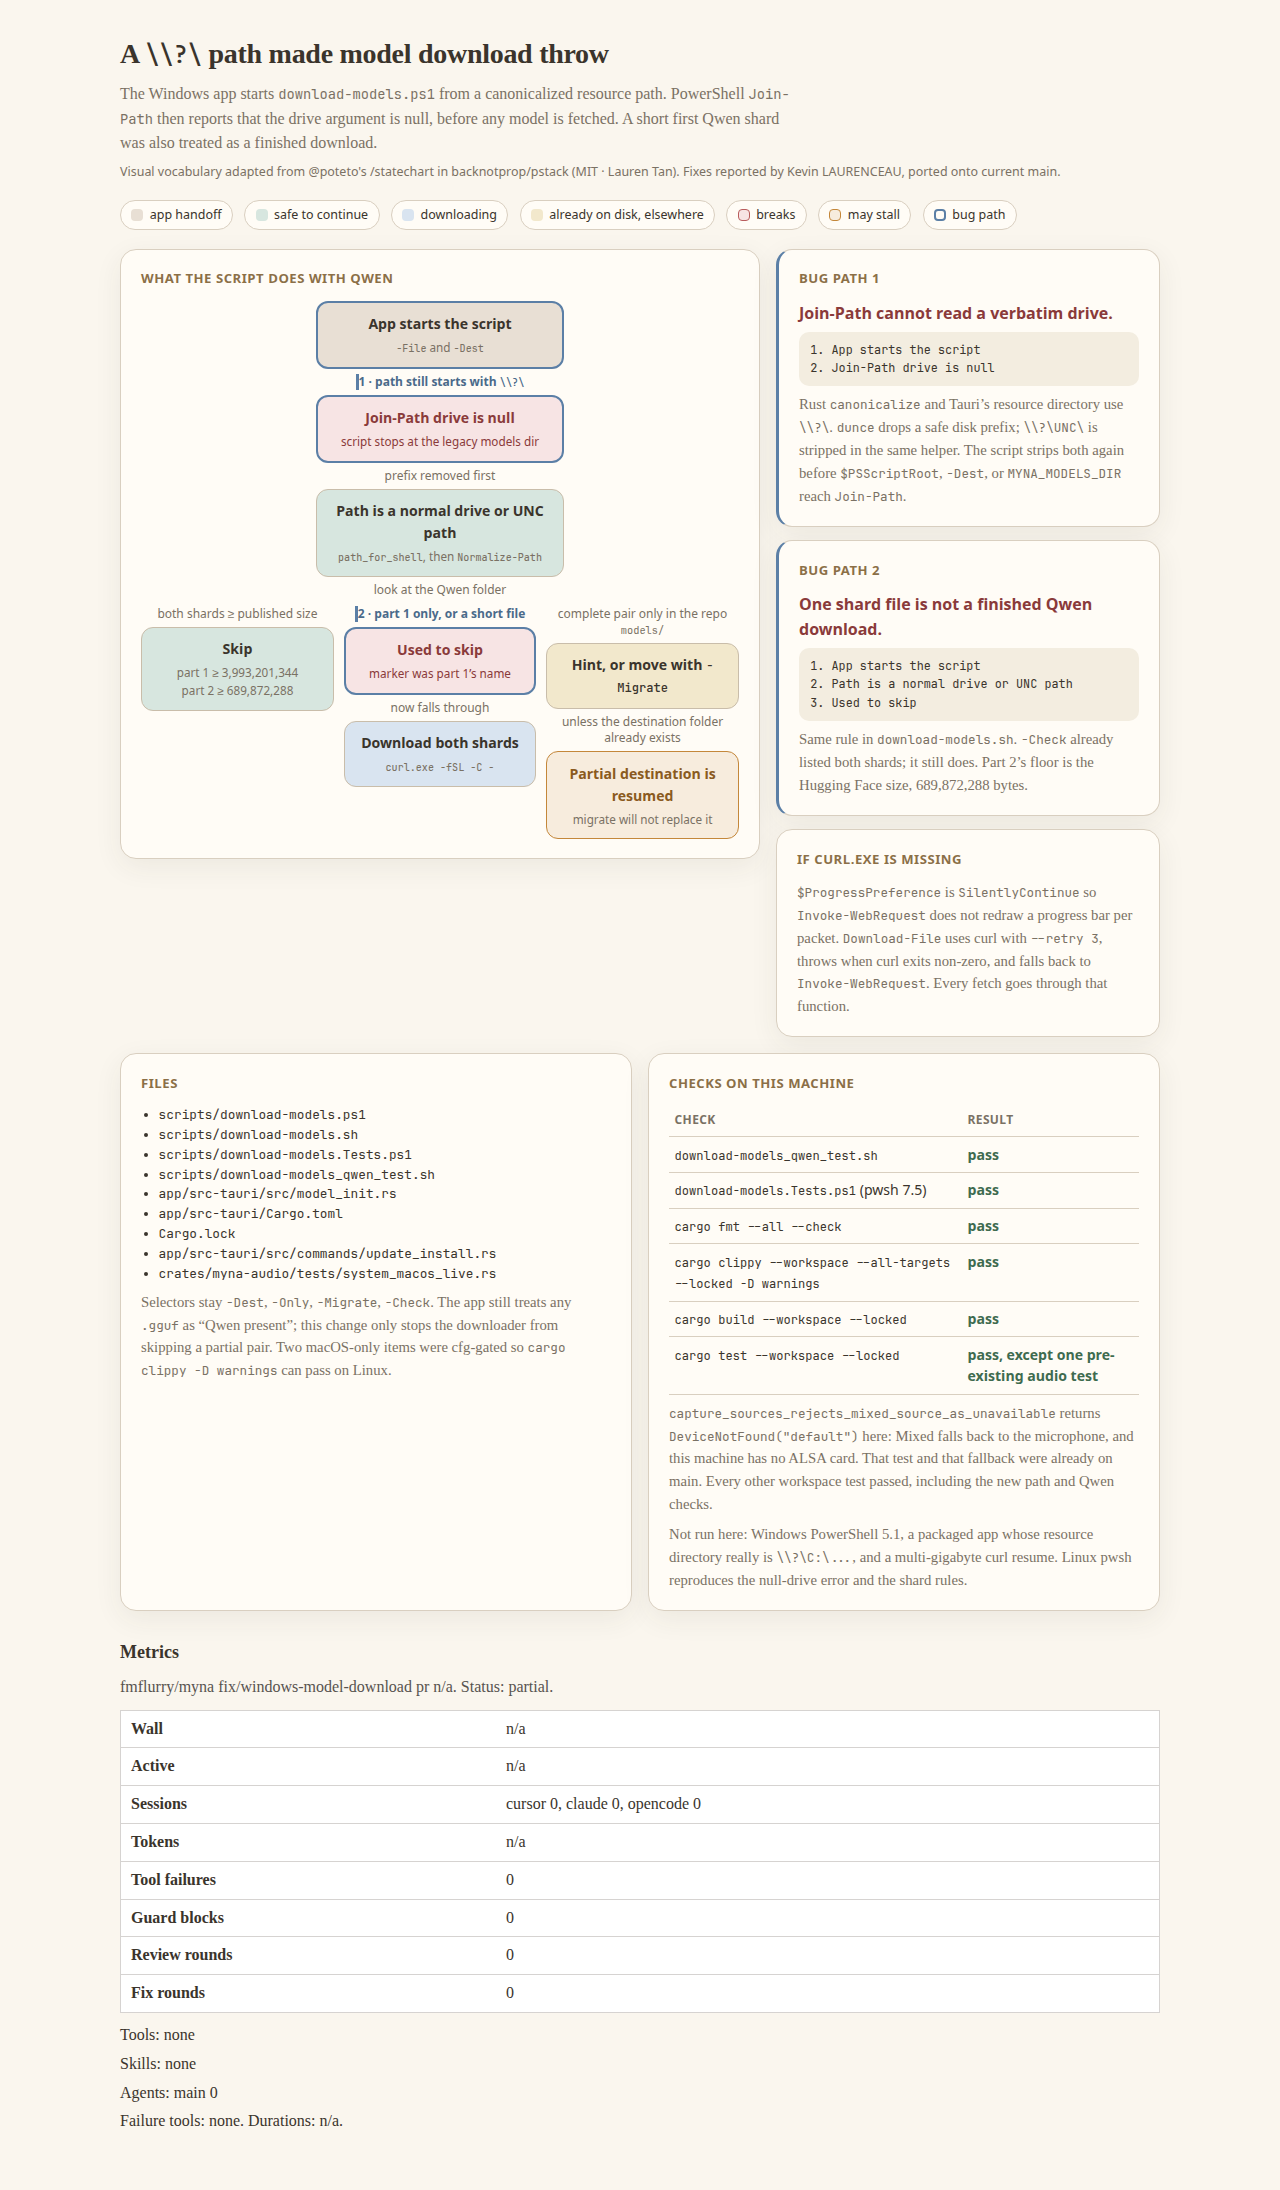
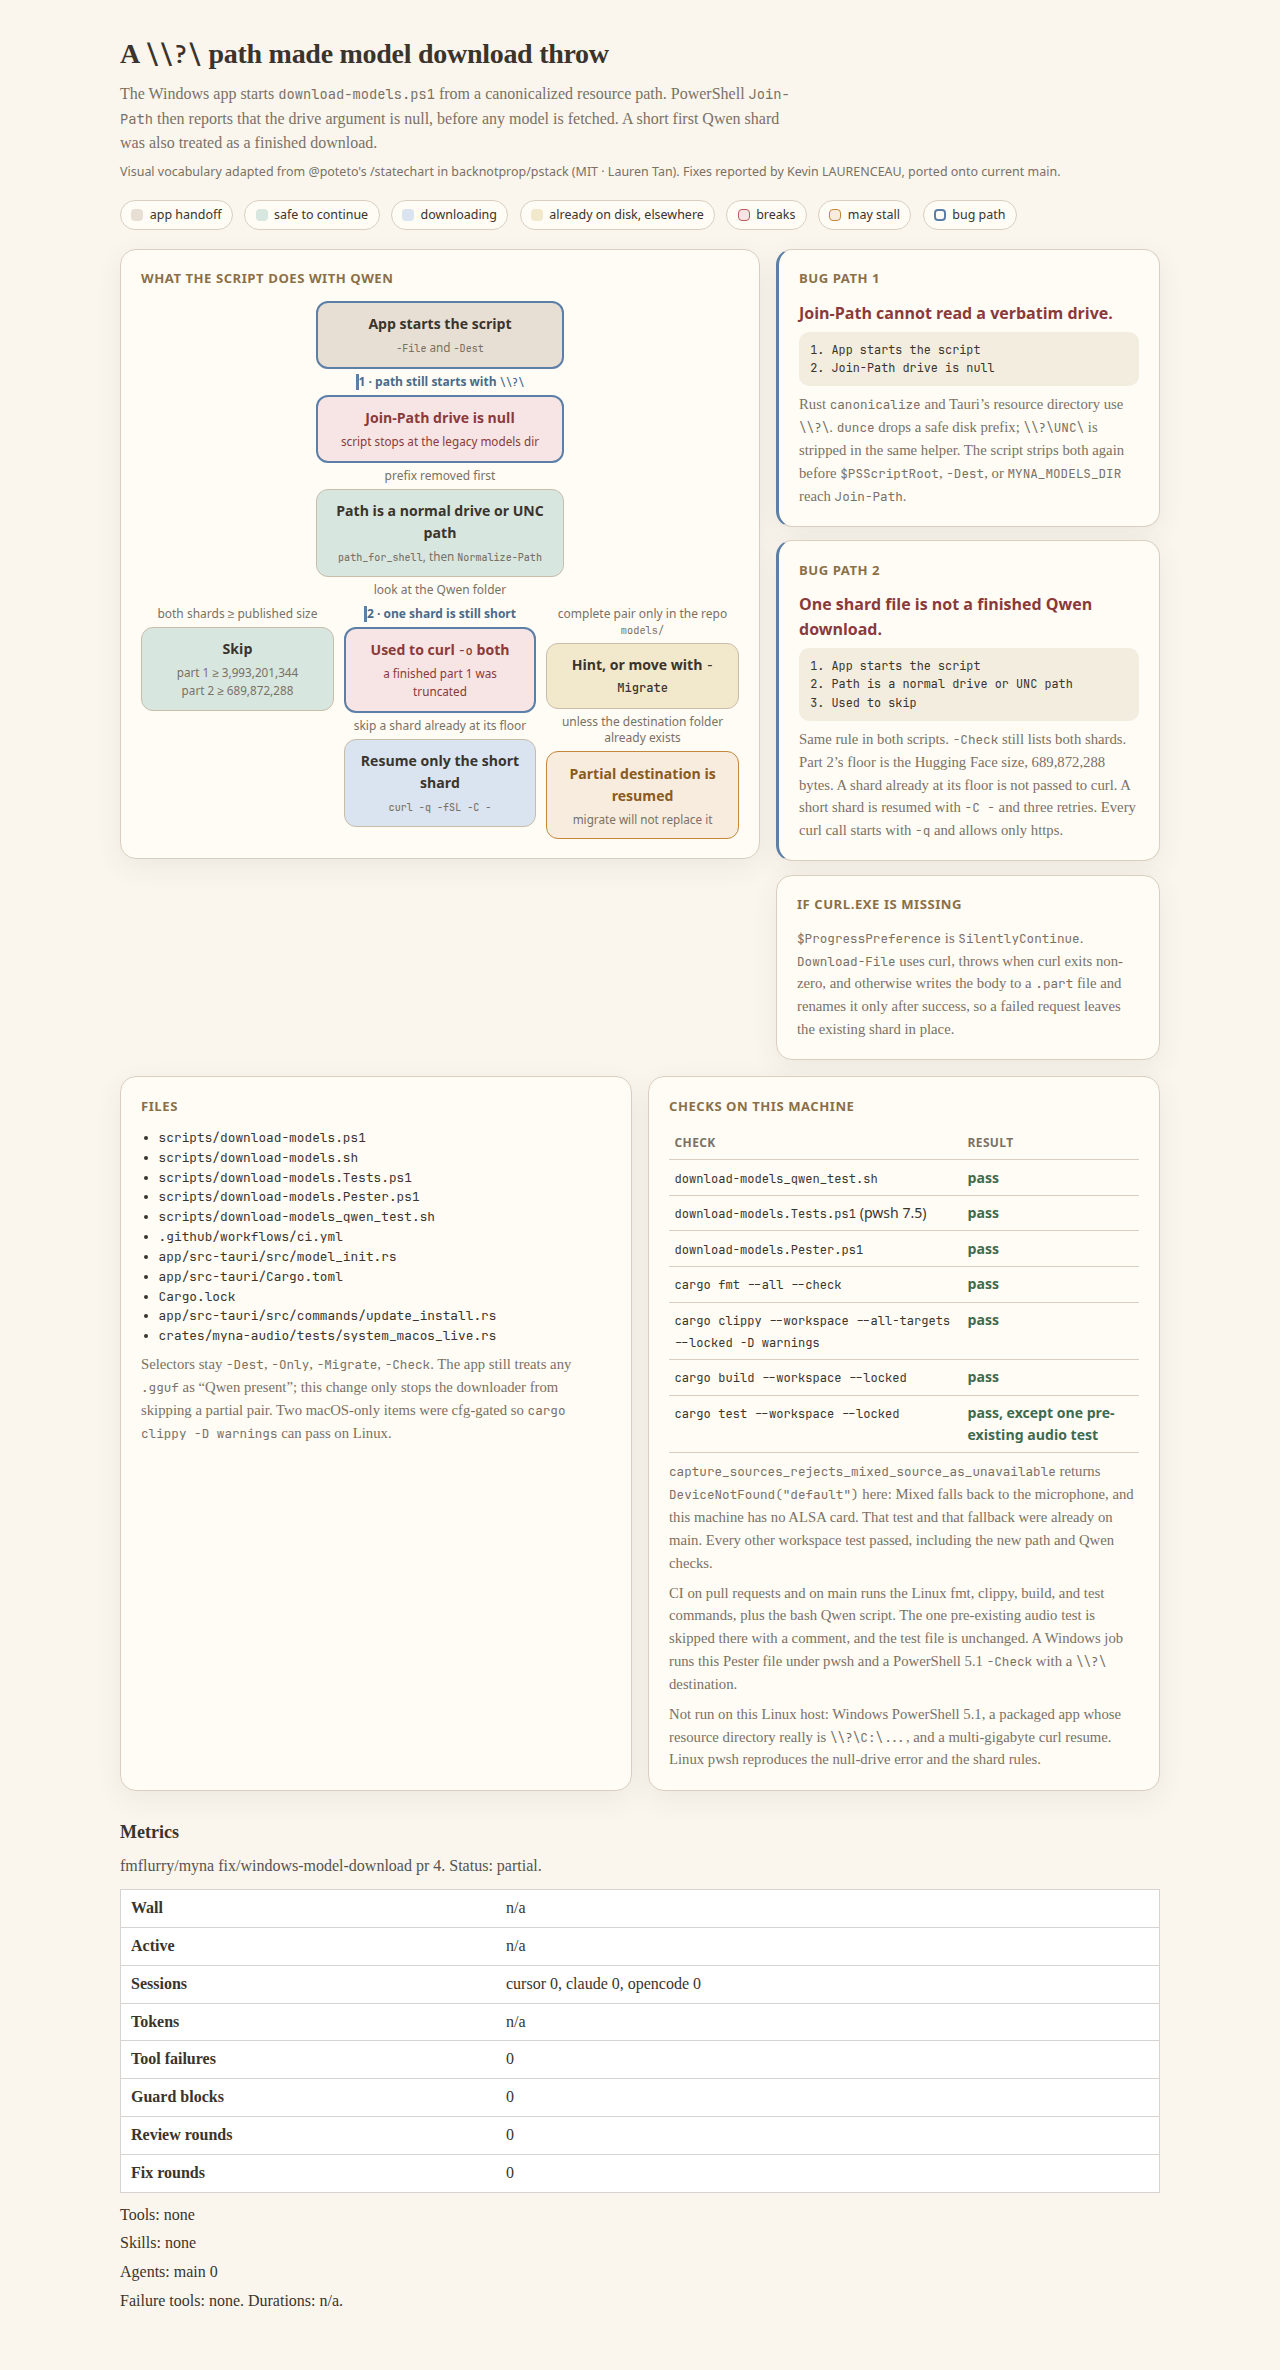
docs(models): refresh the download report

Changed region(s): [[0.0938, 0.0, 0.875, 0.7452], [0.0938, 0.7452, 0.5625, 0.9936], [0.0938, 0.4658, 0.4375, 0.621]]

diff --git a/docs/pr-reports/fix-windows-model-download.html b/docs/pr-reports/fix-windows-model-download.html
@@ -151,10 +151,10 @@ color system adapted from skills/statechart/references/render.md).
             <div class="state teal">Skip<small>part 1 ≥ 3,993,201,344<br>part 2 ≥ 689,872,288</small></div>
           </div>
           <div class="branch">
-            <div class="arrow bug">2 · part 1 only, or a short file</div>
-            <div class="state breaks bugPath">Used to skip<small>marker was part 1’s name</small></div>
-            <div class="arrow">now falls through</div>
-            <div class="state blue">Download both shards<small><code>curl.exe -fSL -C -</code></small></div>
+            <div class="arrow bug">2 · one shard is still short</div>
+            <div class="state breaks bugPath">Used to curl <code>-o</code> both<small>a finished part 1 was truncated</small></div>
+            <div class="arrow">skip a shard already at its floor</div>
+            <div class="state blue">Resume only the short shard<small><code>curl -q -fSL -C -</code></small></div>
           </div>
           <div class="branch">
             <div class="arrow">complete pair only in the repo <code>models/</code></div>
@@ -179,11 +179,11 @@ color system adapted from skills/statechart/references/render.md).
         <p class="path">1. App starts the script
 2. Path is a normal drive or UNC path
 3. Used to skip</p>
-        <p class="note">Same rule in <code>download-models.sh</code>. <code>-Check</code> already listed both shards; it still does. Part 2’s floor is the Hugging Face size, 689,872,288 bytes.</p>
+        <p class="note">Same rule in both scripts. <code>-Check</code> still lists both shards. Part 2’s floor is the Hugging Face size, 689,872,288 bytes. A shard already at its floor is not passed to curl. A short shard is resumed with <code>-C -</code> and three retries. Every curl call starts with <code>-q</code> and allows only https.</p>
       </div>
       <div class="card">
         <h2>If curl.exe is missing</h2>
-        <p class="note" style="margin-top:0"><code>$ProgressPreference</code> is <code>SilentlyContinue</code> so <code>Invoke-WebRequest</code> does not redraw a progress bar per packet. <code>Download-File</code> uses curl with <code>--retry 3</code>, throws when curl exits non-zero, and falls back to <code>Invoke-WebRequest</code>. Every fetch goes through that function.</p>
+        <p class="note" style="margin-top:0"><code>$ProgressPreference</code> is <code>SilentlyContinue</code>. <code>Download-File</code> uses curl, throws when curl exits non-zero, and otherwise writes the body to a <code>.part</code> file and renames it only after success, so a failed request leaves the existing shard in place.</p>
       </div>
     </div>
   </div>
@@ -195,7 +195,9 @@ color system adapted from skills/statechart/references/render.md).
         <li>scripts/download-models.ps1</li>
         <li>scripts/download-models.sh</li>
         <li>scripts/download-models.Tests.ps1</li>
+        <li>scripts/download-models.Pester.ps1</li>
         <li>scripts/download-models_qwen_test.sh</li>
+        <li>.github/workflows/ci.yml</li>
         <li>app/src-tauri/src/model_init.rs</li>
         <li>app/src-tauri/Cargo.toml</li>
         <li>Cargo.lock</li>
@@ -211,6 +213,7 @@ color system adapted from skills/statechart/references/render.md).
         <tbody>
           <tr><td><code>download-models_qwen_test.sh</code></td><td class="ok">pass</td></tr>
           <tr><td><code>download-models.Tests.ps1</code> (pwsh 7.5)</td><td class="ok">pass</td></tr>
+          <tr><td><code>download-models.Pester.ps1</code></td><td class="ok">pass</td></tr>
           <tr><td><code>cargo fmt --all --check</code></td><td class="ok">pass</td></tr>
           <tr><td><code>cargo clippy --workspace --all-targets --locked -D warnings</code></td><td class="ok">pass</td></tr>
           <tr><td><code>cargo build --workspace --locked</code></td><td class="ok">pass</td></tr>
@@ -218,13 +221,15 @@ color system adapted from skills/statechart/references/render.md).
         </tbody>
       </table>
       <p class="note"><code>capture_sources_rejects_mixed_source_as_unavailable</code> returns <code>DeviceNotFound("default")</code> here: Mixed falls back to the microphone, and this machine has no ALSA card. That test and that fallback were already on main. Every other workspace test passed, including the new path and Qwen checks.</p>
-      <p class="note">Not run here: Windows PowerShell 5.1, a packaged app whose resource directory really is <code>\\?\C:\...</code>, and a multi-gigabyte curl resume. Linux pwsh reproduces the null-drive error and the shard rules.</p>
+      <p class="note">CI on pull requests and on main runs the Linux fmt, clippy, build, and test commands, plus the bash Qwen script. The one pre-existing audio test is skipped there with a comment, and the test file is unchanged. A Windows job runs this Pester file under pwsh and a PowerShell 5.1 <code>-Check</code> with a <code>\\?\</code> destination.</p>
+      <p class="note">Not run on this Linux host: Windows PowerShell 5.1, a packaged app whose resource directory really is <code>\\?\C:\...</code>, and a multi-gigabyte curl resume. Linux pwsh reproduces the null-drive error and the shard rules.</p>
     </div>
   </div>
 
+
 <section id="kpi-metrics" style="margin-top:28px">
 <h2 style="font-size:18px;margin:0 0 8px">Metrics</h2>
-<p style="margin:0 0 10px;color:#57534e">fmflurry/myna  fix/windows-model-download  pr n/a. Status: partial.</p>
+<p style="margin:0 0 10px;color:#57534e">fmflurry/myna  fix/windows-model-download  pr 4. Status: partial.</p>
 <table style="width:100%;border-collapse:collapse;background:#fff;border:1px solid #d6d3d1"><tr><th style="text-align:left;padding:6px 10px;border-bottom:1px solid #d6d3d1">Wall</th><td style="padding:6px 10px;border-bottom:1px solid #d6d3d1">n/a</td></tr><tr><th style="text-align:left;padding:6px 10px;border-bottom:1px solid #d6d3d1">Active</th><td style="padding:6px 10px;border-bottom:1px solid #d6d3d1">n/a</td></tr><tr><th style="text-align:left;padding:6px 10px;border-bottom:1px solid #d6d3d1">Sessions</th><td style="padding:6px 10px;border-bottom:1px solid #d6d3d1">cursor 0, claude 0, opencode 0</td></tr><tr><th style="text-align:left;padding:6px 10px;border-bottom:1px solid #d6d3d1">Tokens</th><td style="padding:6px 10px;border-bottom:1px solid #d6d3d1">n/a</td></tr><tr><th style="text-align:left;padding:6px 10px;border-bottom:1px solid #d6d3d1">Tool failures</th><td style="padding:6px 10px;border-bottom:1px solid #d6d3d1">0</td></tr><tr><th style="text-align:left;padding:6px 10px;border-bottom:1px solid #d6d3d1">Guard blocks</th><td style="padding:6px 10px;border-bottom:1px solid #d6d3d1">0</td></tr><tr><th style="text-align:left;padding:6px 10px;border-bottom:1px solid #d6d3d1">Review rounds</th><td style="padding:6px 10px;border-bottom:1px solid #d6d3d1">0</td></tr><tr><th style="text-align:left;padding:6px 10px;border-bottom:1px solid #d6d3d1">Fix rounds</th><td style="padding:6px 10px;border-bottom:1px solid #d6d3d1">0</td></tr></table>
 <p style="margin:10px 0 0">Tools: none</p>
 <p style="margin:4px 0 0">Skills: none</p>
